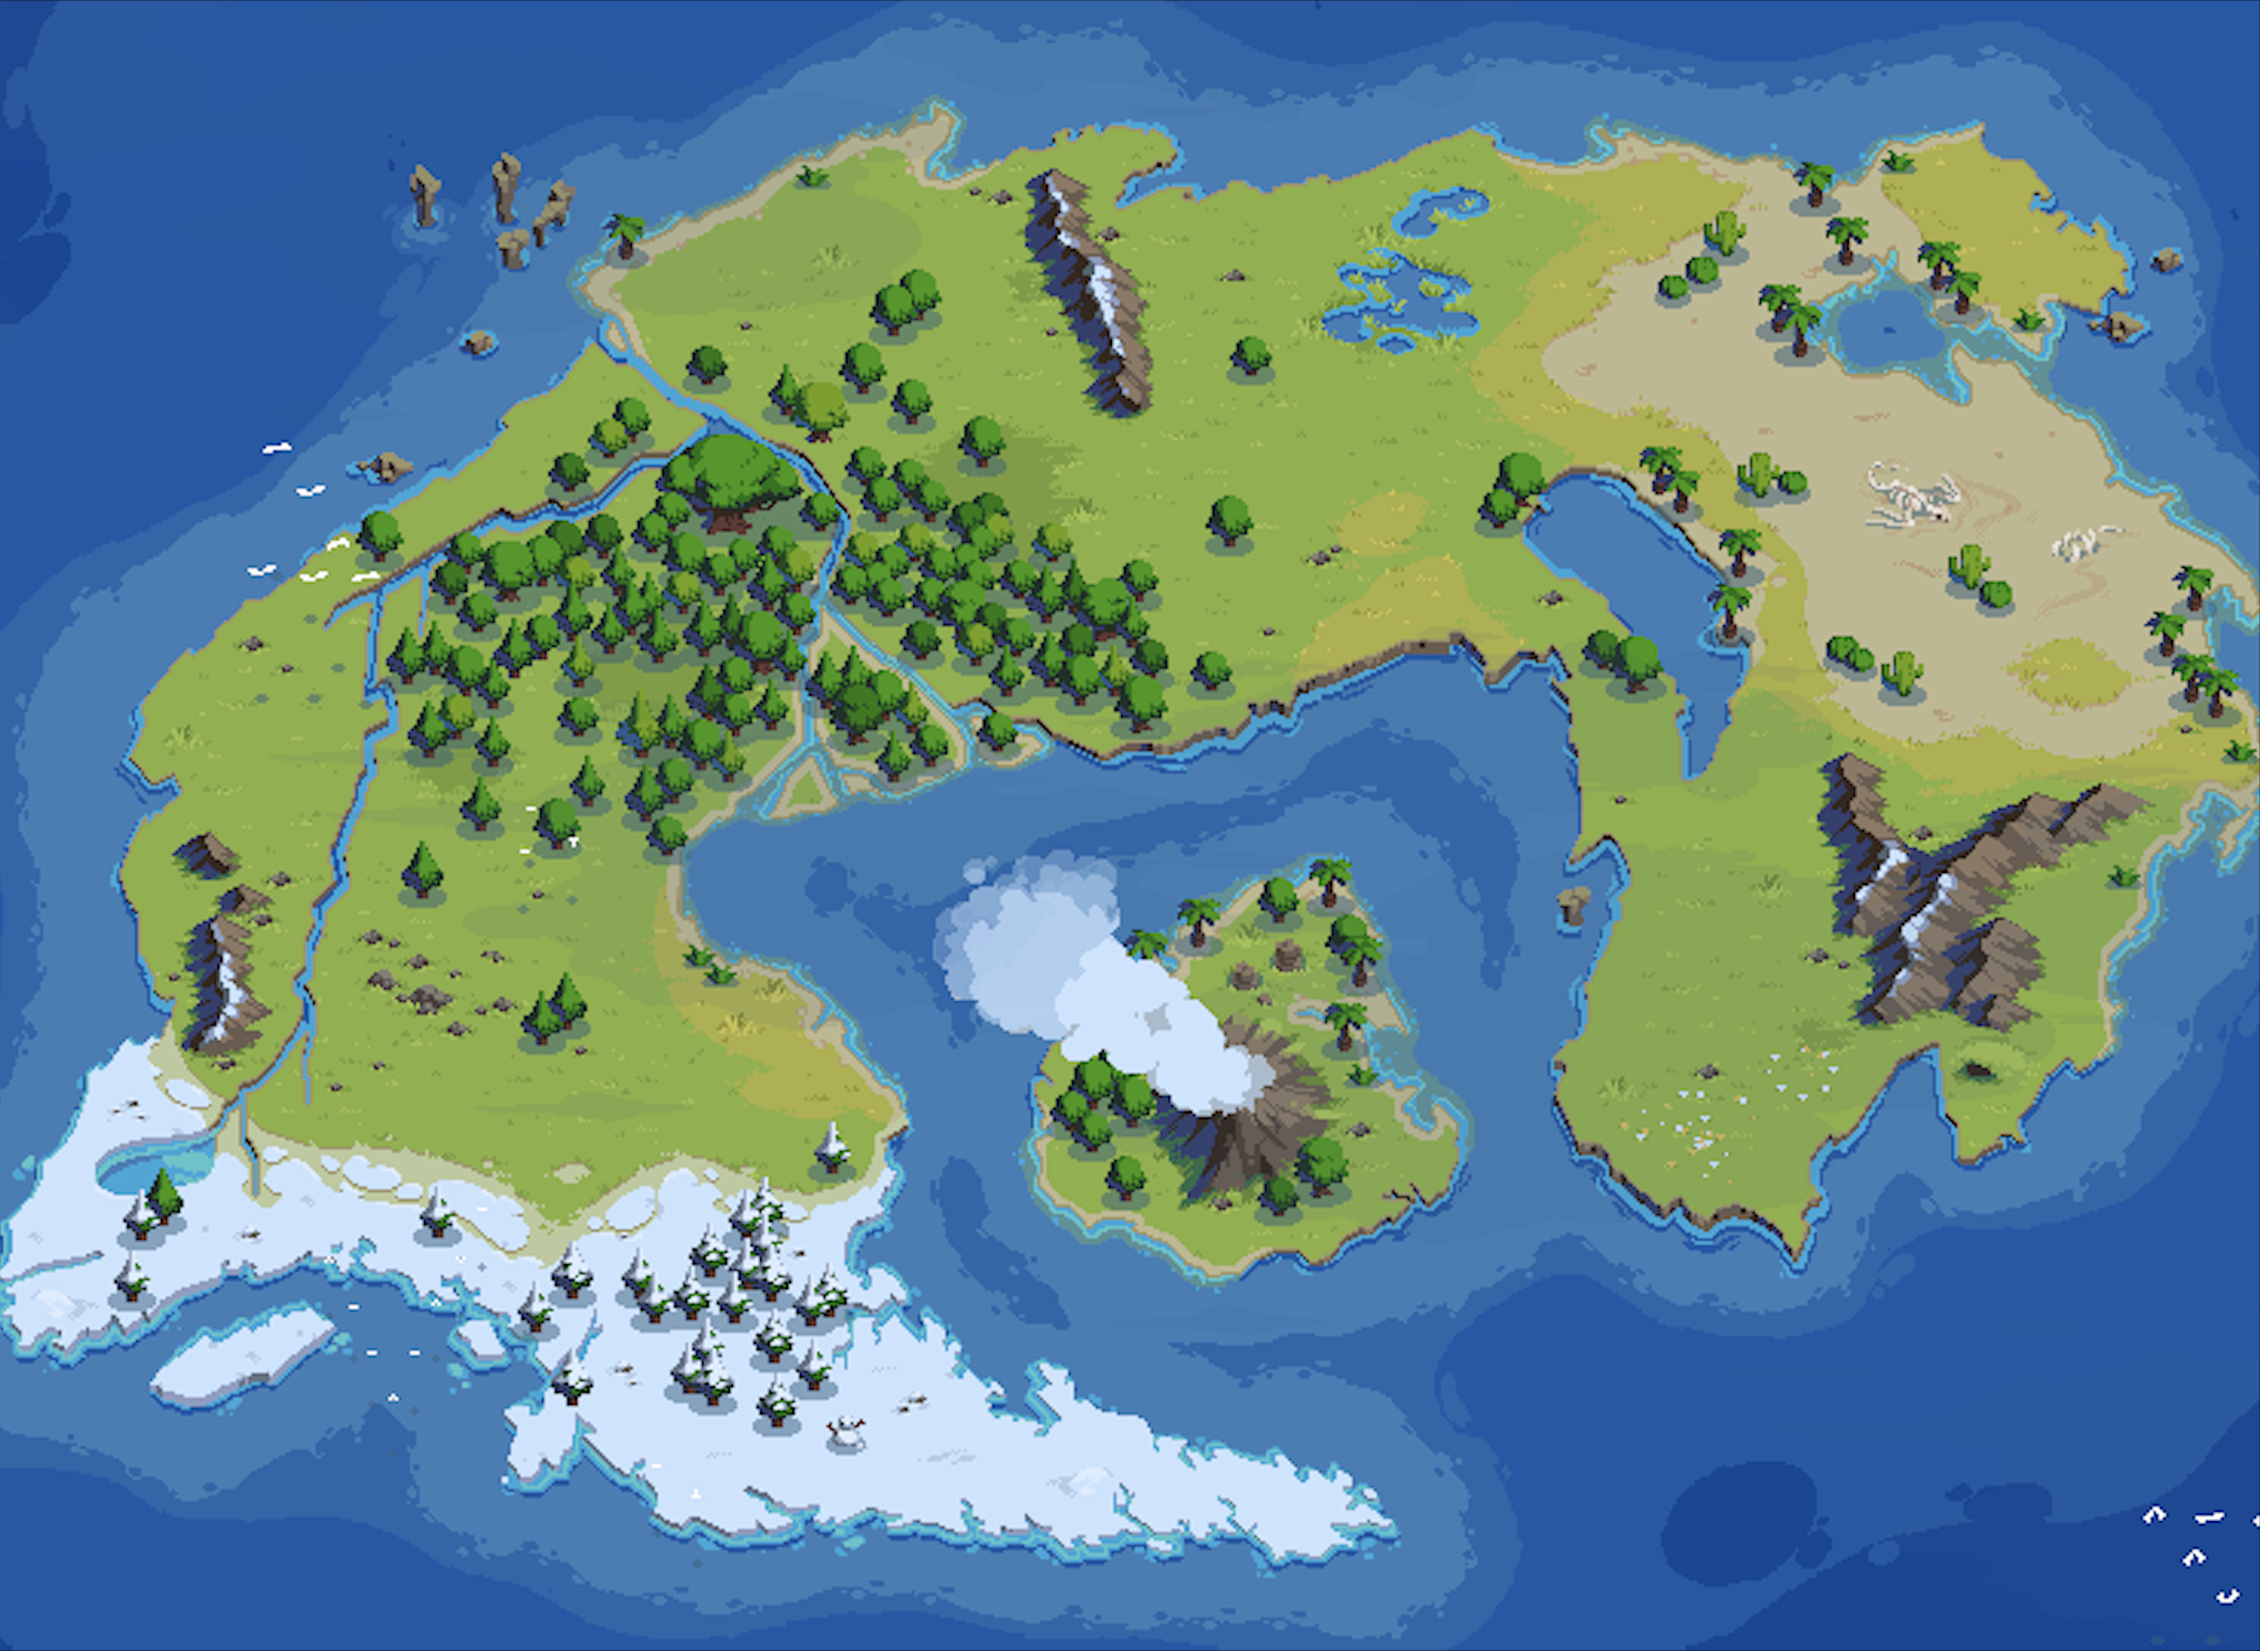
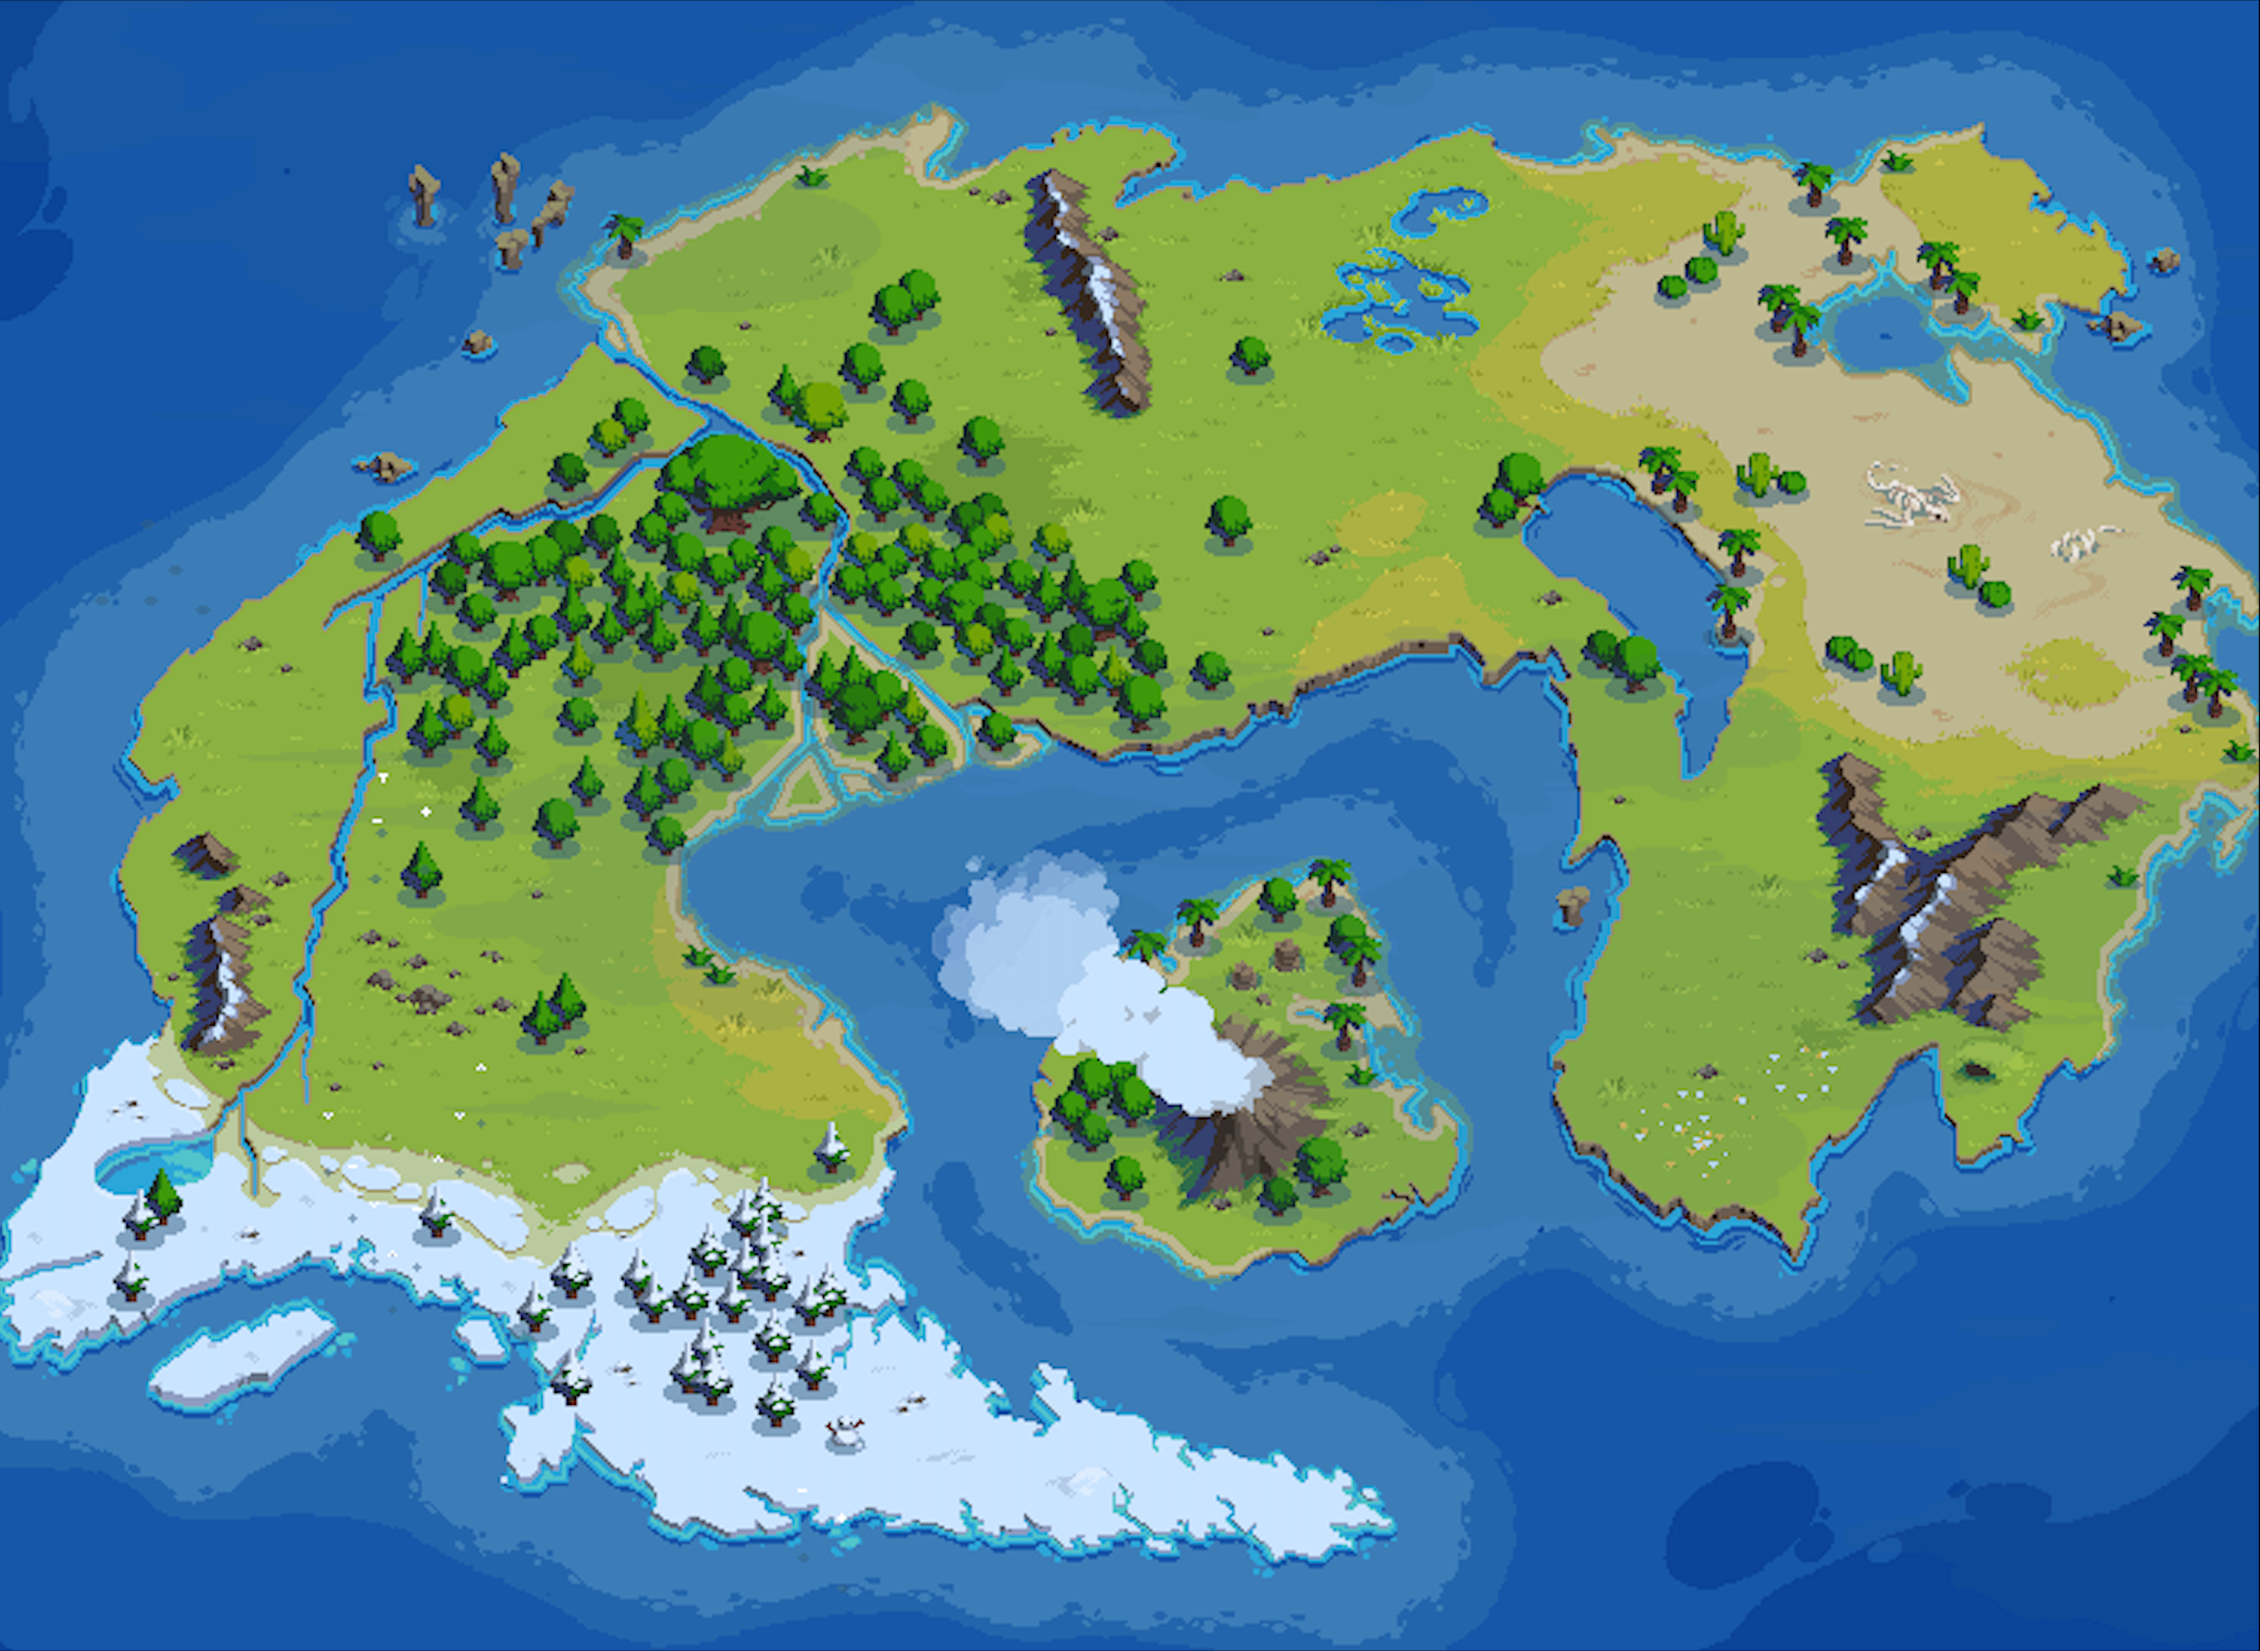
first commit

diff --git a/sketch.js b/sketch.js
@@ -6,6 +6,10 @@ let logo1, logo2, logo3;
 
 let logosArray = [];
 
+let smokeImageArray = [];
+let smokeCounter = 0;
+let smokeDelayCounter = 0;
+
 function preload() {
 	mapImage = loadImage("images/map.png");
 	logo1Image = loadImage("images/asc_logo.png");
@@ -14,6 +18,10 @@ function preload() {
 	logo1NumImage = loadImage("images/1.png");
 	logo2NumImage = loadImage("images/2.png");
 	logo3NumImage = loadImage("images/3.png");
+
+	for (let i = 1; i <= 26; i++) {
+		smokeImageArray.push(loadImage("images/smoke_only/" + i + ".png"));
+	}
 }
 
 function setup() {
@@ -25,7 +33,7 @@ function setup() {
 	// instantiate logos
 	logo1 = new Logo("All Star Code", [logo1Image, 190, 400, 150, 136], [logo1NumImage, 270, 445, 60, 42], "challenge1", 1.3);
 	logo2 = new Logo("Girls Who Code", [logo2Image, 480, 180, 240, 105], [logo2NumImage, 610, 130, 70, 41], "challenge2", 1.2);
-	logo3 = new Logo("CS For All", [logo3Image, 800, 210, 170, 147], [logo3NumImage, 850, 300, 65, 38], "challenge3", 1.3);
+	logo3 = new Logo("CS For All", [logo3Image, 800, 210, 170, 147], [logo3NumImage, 850, 305, 65, 38], "challenge3", 1.2);
 
 	logosArray.push(logo1);
 	logosArray.push(logo2);
@@ -43,6 +51,19 @@ function draw() {
 	// noFill();
 	// strokeWeight(5);
 	// rect(width / 2, height / 2, 200, 100);
+
+	// smoke animation
+	image(smokeImageArray[smokeCounter], 460, 410, 170, 135);
+
+	if (smokeDelayCounter % 3 == 0) {
+		smokeCounter++;
+
+		if (smokeCounter == smokeImageArray.length) {
+			smokeCounter = 0;
+		}
+	}
+
+	smokeDelayCounter++
 }
 
 class Logo {
